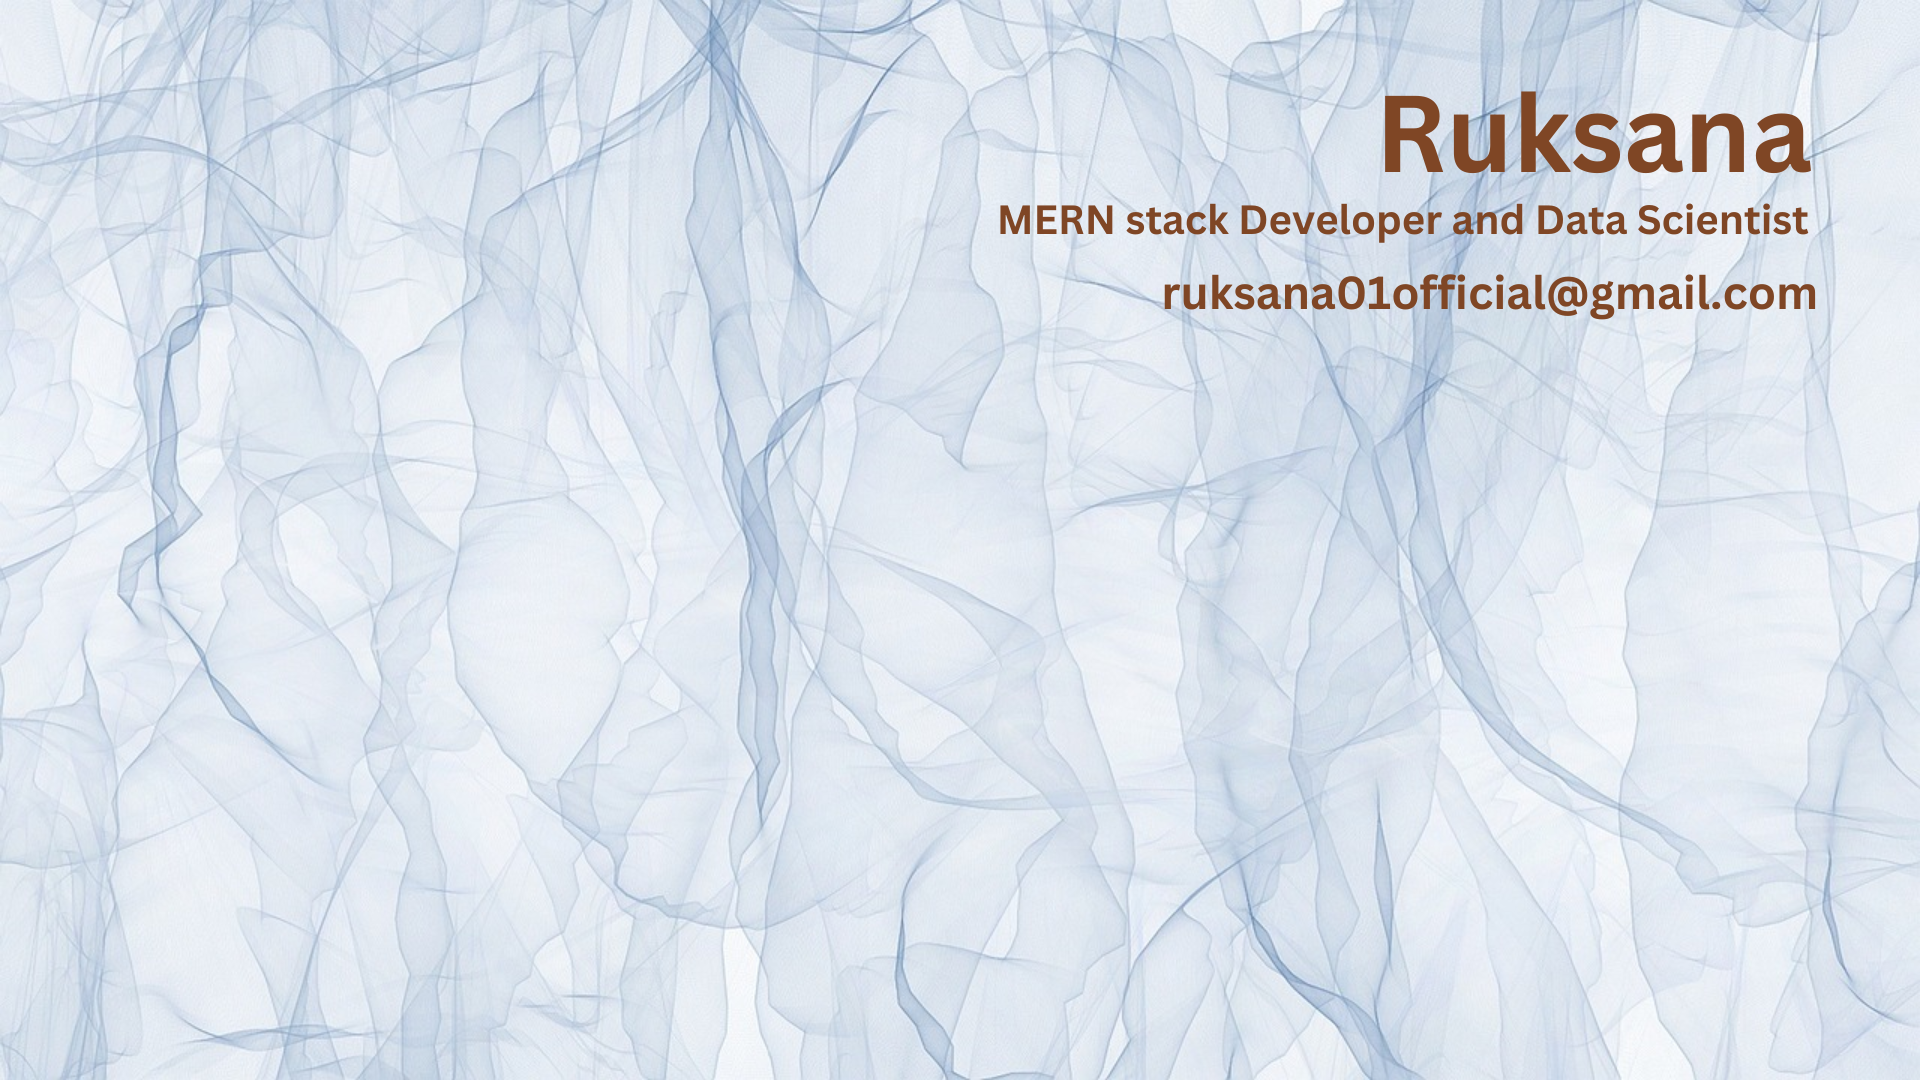
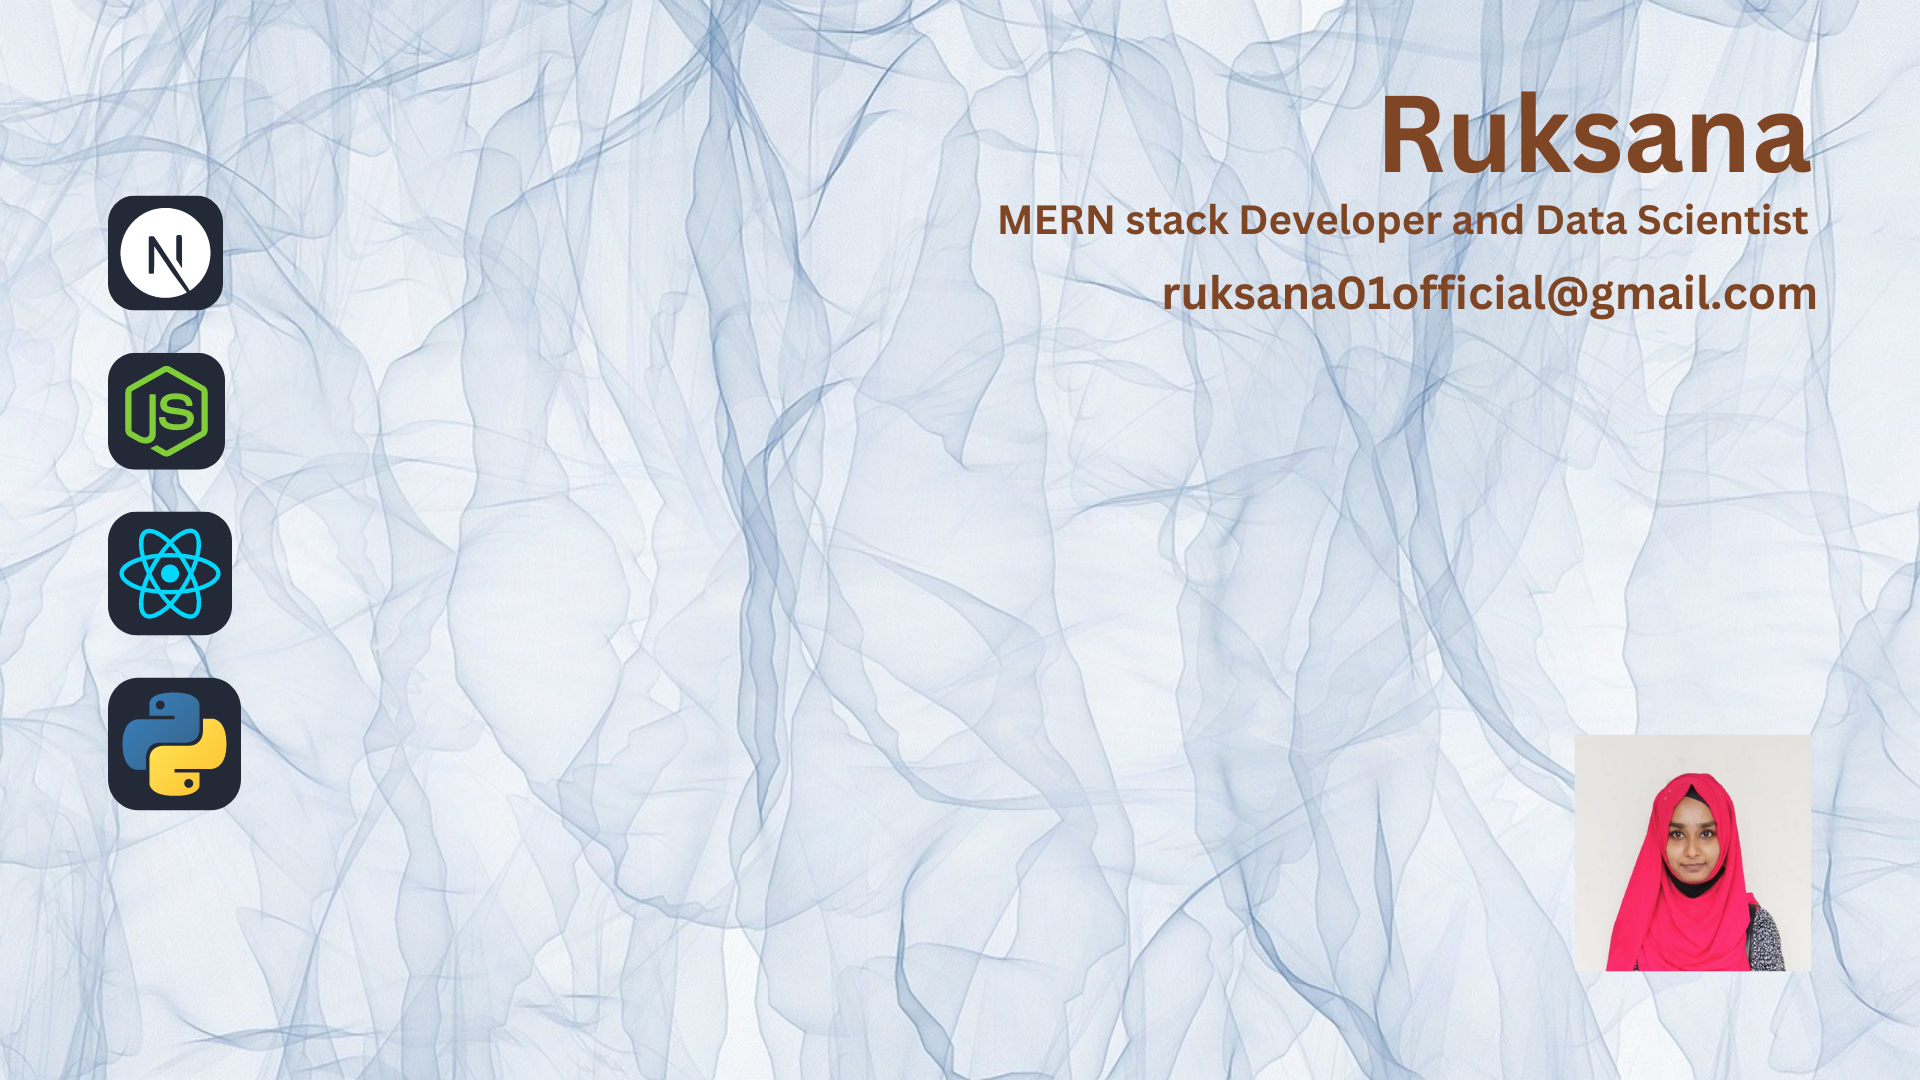
add image

Changed region(s): [[0.0312, 0.1833, 0.125, 0.7639], [0.8125, 0.6722, 0.9375, 0.9167]]

diff --git a/README.md b/README.md
@@ -1,10 +1,10 @@
 
-![MasterHead](https://encrypted-tbn0.gstatic.com/images?q=tbn:ANd9GcSEZAH7XKs0Mv3zgG1R2j_AHXauPYDMuExlhw&usqp=CAU)
+![MasterHead](https://raw.githubusercontent.com/ruksana03/ruksana03/main/image/Ruksana.png)
 
-<h1 align="center">Hi 👋, I'm Ruksana</h1>
+<h1 align="center">Hi 👋, I'm a MERN stack developer and data scientist 🚀</h1>
 
 
-<h3 align="center">A passionate frontend developer from Bangladesh</h3>
+<!-- <h3 align="center">A passionate frontend developer from Bangladesh</h3> -->
 
 <a href="https://git.io/streak-stats"><img src="https://github-readme-streak-stats.herokuapp.com?user=ruksana03&theme=dayfox&border_radius=5&date_format=M%20j%5B%2C%20Y%5D&exclude_days=Fri" alt="GitHub Streak" /></a>
 
